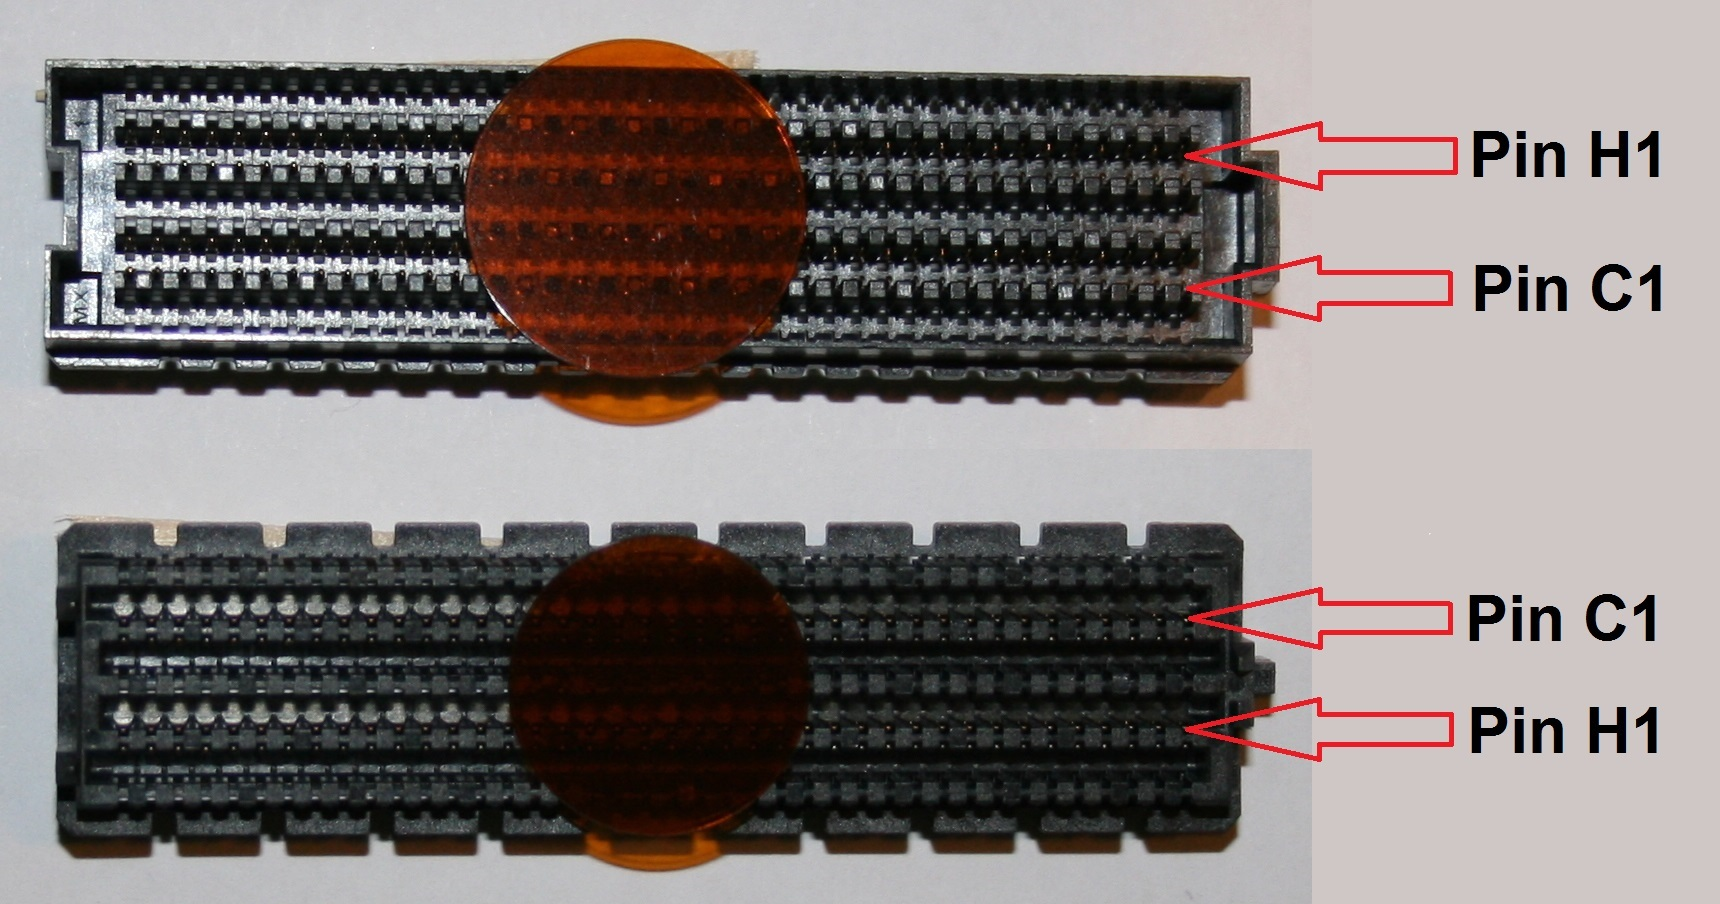
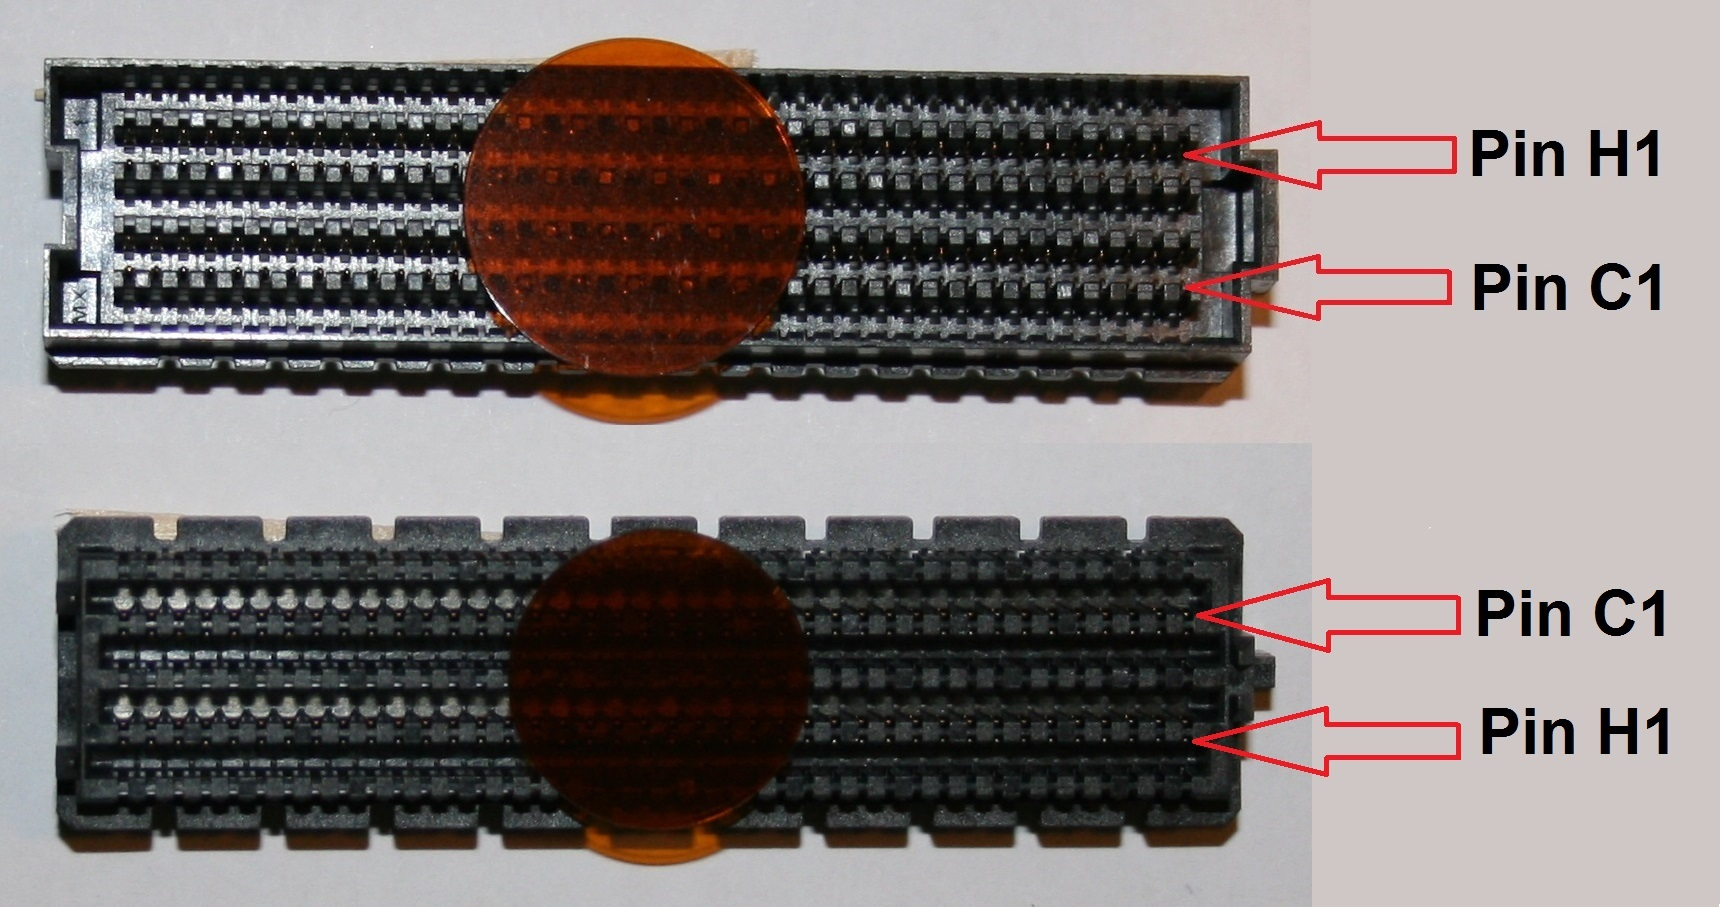
edit: copyright year to 2018 add: pin summaries of HPC and LPC connectors fix: arrow marking pins in LPC image

Changed region(s): [[0.0308, 0.5575, 0.986, 0.9912], [0.0, 0.0619, 0.9552, 0.4956], [0.339, 0.031, 0.3698, 0.0619]]

diff --git a/appendix/VITA57_FMC_HPC_LPC_SIGNALS_AND_PINOUT.html b/appendix/VITA57_FMC_HPC_LPC_SIGNALS_AND_PINOUT.html
@@ -40,8 +40,59 @@
 </p>
 <hr>
 <A NAME="hpc_pinout"><h1><em>High-pin count (HPC) connector, HPC pinout</em></h1></A>
-The HPC connector has 10 rows (A, B, C, D, E, F, G, H, J, K) with 40 pins each. Footprints can be viewed in <a target="_newlibaltium" href="https://github.com/FMCHUB/Lib_Altium/wiki">Lib_Altium</a> repository.</br></br>
+The HPC connector has 10 rows (A, B, C, D, E, F, G, H, J, K) with 40 pins each. The following table summarizes the pins of the HPC connector.</br></br>
+<table cellspacing="0" border="0">
+        <tr>
+		<td colspan=2 height="20" align="left" valign=bottom><b><font size=3>HPC connector pin summary</font></b></td>
+		</tr>
+	<tr>
+		<td style="border-bottom: 1px solid #000000" height="20" align="left" valign=bottom><font size=3>General pin function</font></td>
+		<td style="border-bottom: 1px solid #000000" align="center" valign=bottom><font size=3>Pin count</font></td>
+	</tr>
+	<tr>
+		<td height="20" align="left" valign=bottom><font size=3>Gigabit data</font></td>
+		<td align="right" valign=bottom sdval="40" sdnum="1031;"><font size=3>40</font></td>
+	</tr>
+	<tr>
+		<td height="20" align="left" valign=bottom><font size=3>Gigabit clocks</font></td>
+		<td align="right" valign=bottom sdval="4" sdnum="1031;"><font size=3>4</font></td>
+	</tr>
+	<tr>
+		<td height="20" align="left" valign=bottom><font size=3>User data</font></td>
+		<td align="right" valign=bottom sdval="160" sdnum="1031;"><font size=3>160</font></td>
+	</tr>
+	<tr>
+		<td height="20" align="left" valign=bottom><font size=3>User clocks</font></td>
+		<td align="right" valign=bottom sdval="8" sdnum="1031;"><font size=3>8</font></td>
+	</tr>
+	<tr>
+		<td height="20" align="left" valign=bottom><font size=3>I2C</font></td>
+		<td align="right" valign=bottom sdval="2" sdnum="1031;"><font size=3>2</font></td>
+	</tr>
+	<tr>
+		<td height="20" align="left" valign=bottom><font size=3>JTAG</font></td>
+		<td align="right" valign=bottom sdval="5" sdnum="1031;"><font size=3>5</font></td>
+	</tr>
+	<tr>
+		<td height="20" align="left" valign=bottom><font size=3>State flags</font></td>
+		<td align="right" valign=bottom sdval="5" sdnum="1031;"><font size=3>5</font></td>
+	</tr>
+	<tr>
+		<td height="20" align="left" valign=bottom><font size=3>Power supply</font></td>
+		<td align="right" valign=bottom sdval="15" sdnum="1031;"><font size=3>15</font></td>
+	</tr>
+	<tr>
+		<td height="20" align="left" valign=bottom><font size=3>Ground</font></td>
+		<td align="right" valign=bottom sdval="159" sdnum="1031;"><font size=3>159</font></td>
+	</tr>
+	<tr>
+		<td height="20" align="left" valign=bottom><font size=3>Reserved</font></td>
+		<td align="right" valign=bottom sdval="2" sdnum="1031;"><font size=3>2</font></td>
+	</tr>
+</table>
+</br></br>
 <a href="./VITA57_FMC_CONNECTORS_HPC.jpg" alt="VITA57 FMC connectors (HPC)" target="new_vita57_fmc_connectors_hpc"><img src="./VITA57_FMC_CONNECTORS_HPC.jpg" width="600px" alt="VITA57 FMC connectors (HPC)"></a></br></br>
+Footprints can be viewed in <a target="_newlibaltium" href="https://github.com/FMCHUB/Lib_Altium/wiki">Lib_Altium</a> repository.</br></br>
 <table cellspacing="0" border="0">
 	<colgroup width="37"></colgroup>
 	<colgroup span="10" width="112"></colgroup>
@@ -582,8 +633,62 @@ The HPC connector has 10 rows (A, B, C, D, E, F, G, H, J, K) with 40 pins each. 
 <!-- ************************************************************************** -->
 <hr>
 <A NAME="lpc_pinout"><h1><em>Low-pin count (LPC) connector, LPC pinout</em></h1></A>
-The LPC connector has 4 rows (C, D, G, H) with 40 pins each. Footprints can be viewed in <a target="_newlibaltium" href="https://github.com/FMCHUB/Lib_Altium/wiki">Lib_Altium</a> repository.</br></br>
+The LPC connector has 4 rows (C, D, G, H) with 40 pins each. The following table summarizes the pins of the LPC connector.</br>
+</br>
+<table cellspacing="0" border="0">
+	<colgroup width="169"></colgroup>
+	<colgroup width="94"></colgroup>
+	<tr>
+		<td colspan=2 height="20" align="left" valign=bottom><b><font size=3>LPC connector pin summary</font></b></td>
+		</tr>
+	<tr>
+		<td style="border-bottom: 1px solid #000000" height="20" align="left" valign=bottom><font size=3>General pin function</font></td>
+		<td style="border-bottom: 1px solid #000000" align="center" valign=bottom><font size=3>Pin count</font></td>
+	</tr>
+	<tr>
+		<td height="20" align="left" valign=bottom><font size=3>Gigabit data</font></td>
+		<td align="right" valign=bottom sdval="4" sdnum="1031;"><font size=3>4</font></td>
+	</tr>
+	<tr>
+		<td height="20" align="left" valign=bottom><font size=3>Gigabit clocks</font></td>
+		<td align="right" valign=bottom sdval="2" sdnum="1031;"><font size=3>2</font></td>
+	</tr>
+	<tr>
+		<td height="20" align="left" valign=bottom><font size=3>User data</font></td>
+		<td align="right" valign=bottom sdval="68" sdnum="1031;"><font size=3>68</font></td>
+	</tr>
+	<tr>
+		<td height="20" align="left" valign=bottom><font size=3>User clocks</font></td>
+		<td align="right" valign=bottom sdval="4" sdnum="1031;"><font size=3>4</font></td>
+	</tr>
+	<tr>
+		<td height="20" align="left" valign=bottom><font size=3>I2C</font></td>
+		<td align="right" valign=bottom sdval="2" sdnum="1031;"><font size=3>2</font></td>
+	</tr>
+	<tr>
+		<td height="20" align="left" valign=bottom><font size=3>JTAG</font></td>
+		<td align="right" valign=bottom sdval="5" sdnum="1031;"><font size=3>5</font></td>
+	</tr>
+	<tr>
+		<td height="20" align="left" valign=bottom><font size=3>State flags</font></td>
+		<td align="right" valign=bottom sdval="4" sdnum="1031;"><font size=3>4</font></td>
+	</tr>
+	<tr>
+		<td height="20" align="left" valign=bottom><font size=3>Power supply</font></td>
+		<td align="right" valign=bottom sdval="10" sdnum="1031;"><font size=3>10</font></td>
+	</tr>
+	<tr>
+		<td height="20" align="left" valign=bottom><font size=3>Ground</font></td>
+		<td align="right" valign=bottom sdval="61" sdnum="1031;"><font size=3>61</font></td>
+	</tr>
+	<tr>
+		<td height="20" align="left" valign=bottom><font size=3><br></font></td>
+		<td align="left" valign=bottom><font size=3><br></font></td>
+	</tr>
+</table></br></br>
 <a href="./VITA57_FMC_CONNECTORS_LPC.jpg" alt="VITA57 FMC connectors (LPC)" target="new_vita57_fmc_connectors_lpc"><img src="./VITA57_FMC_CONNECTORS_LPC.jpg" width="600px" alt="VITA57 FMC connectors (LPC)"></a></br></br>
+Footprints can be viewed in <a target="_newlibaltium" href="https://github.com/FMCHUB/Lib_Altium/wiki">Lib_Altium</a> repository.</br>
+</br></br>
 <table cellspacing="0" border="0">
 	<colgroup width="37"></colgroup>
 	<colgroup span="10" width="112"></colgroup>

diff --git a/faq.html b/faq.html
@@ -344,7 +344,7 @@ Here is a list of commonly used chips we have seen on several FMC modules.
 <!-- Mechanical components (bezel etc), Reference Dessign, ...//--> 
 
       <footer class="footer">
-        <p>&copy; 2017 F M C H U B . O R G, ( i n f o @ f m c h u b . o r g )</p>
+        <p>&copy; 2018 F M C H U B . O R G, ( i n f o @ f m c h u b . o r g )</p>
       </footer>
 
     </div> <!-- /container -->

diff --git a/license.html b/license.html
@@ -67,7 +67,7 @@ as published by Sam Hocevar. See the <a href="COPYING">COPYING</a> file for more
 </code></pre>
 
       <footer class="footer">
-        <p>&copy; 2017 F M C H U B . O R G, ( i n f o @ f m c h u b . o r g )</p>
+        <p>&copy; 2018 F M C H U B . O R G, ( i n f o @ f m c h u b . o r g )</p>
       </footer>
 
     </div> <!-- /container -->

diff --git a/about.html b/about.html
@@ -68,7 +68,7 @@
 
 
       <footer class="footer">
-        <p>&copy; 2017 F M C H U B . O R G, ( i n f o @ f m c h u b . o r g )</p>
+        <p>&copy; 2018 F M C H U B . O R G, ( i n f o @ f m c h u b . o r g )</p>
       </footer>
 
     </div> <!-- /container -->
